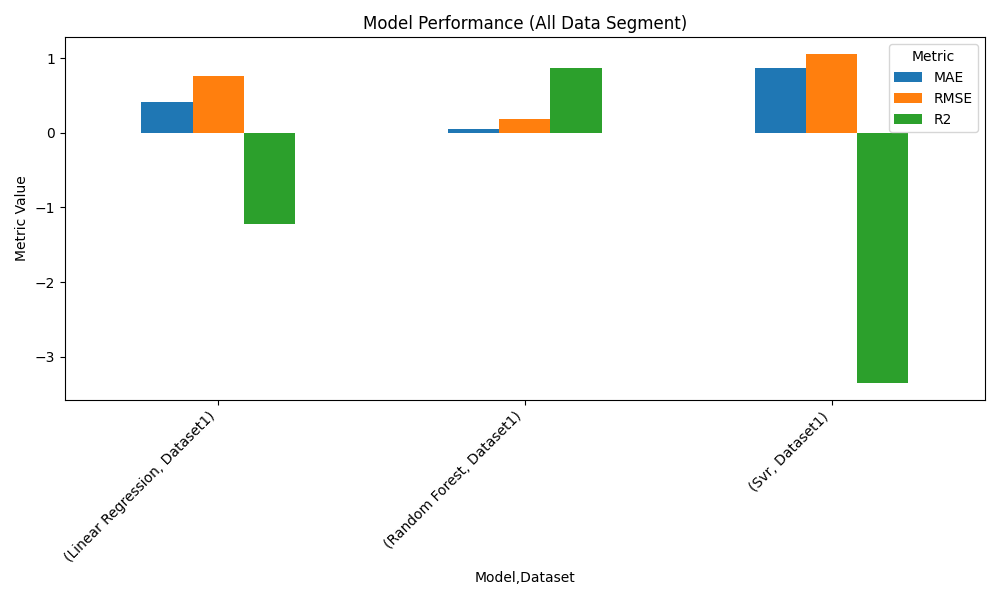
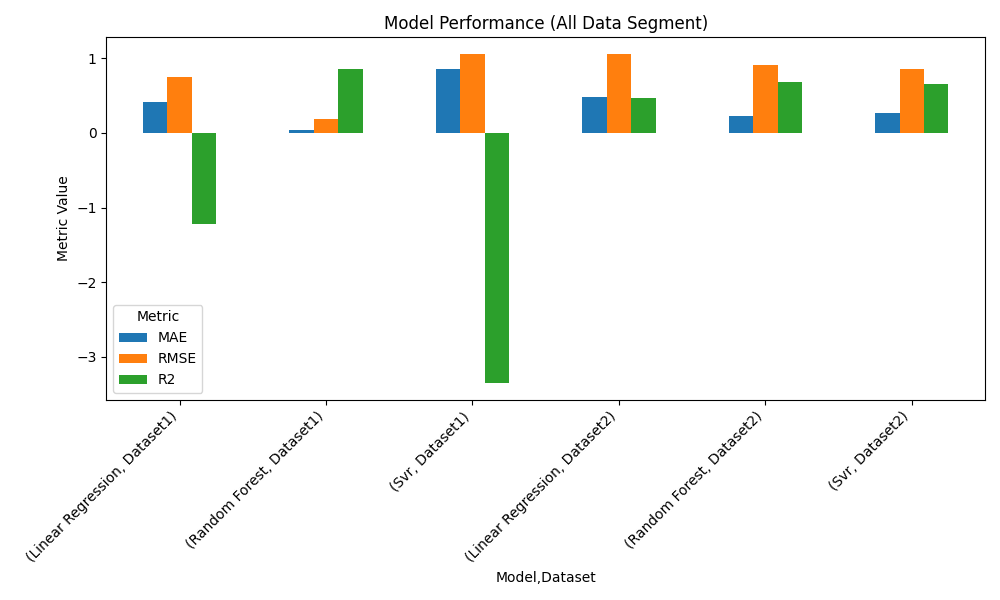
updated dashboard and compare metrics to show a combined subplot graph for MAE, RMSE, R2 for each dataset

diff --git a/scripts/compare_metrics.py b/scripts/compare_metrics.py
@@ -5,7 +5,14 @@ import matplotlib.pyplot as plt
 base_dir = 'outputs/'
 records = []
 
-# Step 1: Parse all metrics.txt files
+segment_alias = {
+    "Test Set Performance": "All Data",
+    "All Data": "All Data",
+    "Original Only": "Original Only",
+    "Synthetic Only": "Synthetic Only"
+}
+
+# Parse all metrics.txt files
 for folder in os.listdir(base_dir):
     subdir = os.path.join(base_dir, folder)
     metrics_file = os.path.join(subdir, "metrics.txt")
@@ -21,7 +28,8 @@ for folder in os.listdir(base_dir):
             for line in lines:
                 line = line.strip()
                 if "---" in line:
-                    segment = line.replace("-", "").strip()
+                    raw_segment = line.replace("-", "").strip()
+                    segment = segment_alias.get(raw_segment, raw_segment)
                 elif ":" in line and segment:
                     key, val = line.split(":", 1)
                     key = key.strip()
@@ -41,7 +49,7 @@ for folder in os.listdir(base_dir):
         except Exception as e:
             print(f"Failed to read {metrics_file}: {e}")
 
-# Step 2: Create and save enhanced comparison summary
+# Create and save enhanced comparison summary
 if records:
     df = pd.DataFrame(records)
     summary = df.pivot_table(
@@ -53,7 +61,7 @@ if records:
     summary = summary.round(4)
     summary = summary.sort_values(by=["Dataset", "Model", "Segment"])
 
-    # Step 3: Identify best performers
+    # Identify best performers
     best_summary = summary[summary["Segment"] == "All Data"].copy()
 
     best_mae_idx = best_summary["MAE"].idxmin()
@@ -64,18 +72,18 @@ if records:
     summary["Best RMSE"] = summary.index == best_rmse_idx
     summary["Best R2"] = summary.index == best_r2_idx
 
-    # Step 4: Save to CSV
+    # Save to CSV
     summary_path = os.path.join(base_dir, "model_comparison_summary.csv")
     summary.to_csv(summary_path, index=False)
 
-    # Step 5: Save best results to TXT
+    # Save best results to TXT
     with open(os.path.join(base_dir, "model_comparison_summary.txt"), "w") as f:
         f.write("=== Best Performing Models (All Data Segment) ===\n")
         f.write(f"Best MAE  : {summary.loc[best_mae_idx, 'Model']} on {summary.loc[best_mae_idx, 'Dataset']} (MAE: {summary.loc[best_mae_idx, 'MAE']})\n")
         f.write(f"Best RMSE : {summary.loc[best_rmse_idx, 'Model']} on {summary.loc[best_rmse_idx, 'Dataset']} (RMSE: {summary.loc[best_rmse_idx, 'RMSE']})\n")
         f.write(f"Best R²   : {summary.loc[best_r2_idx, 'Model']} on {summary.loc[best_r2_idx, 'Dataset']} (R²: {summary.loc[best_r2_idx, 'R2']})\n")
 
-    # Step 6: Plot bar chart for visual comparison (optional)
+    # Plot bar chart for visual comparison
     chart_data = best_summary[["Model", "Dataset", "MAE", "RMSE", "R2"]]
     chart_data.set_index(["Model", "Dataset"]).plot(kind='bar', figsize=(10, 6))
     plt.title("Model Performance (All Data Segment)")
@@ -83,6 +91,30 @@ if records:
     plt.xticks(rotation=45, ha="right")
     plt.tight_layout()
     plt.savefig(os.path.join(base_dir, "model_comparison_chart.png"))
+
+    #Generate separate subplot figure per dataset
+    for dataset_name in summary["Dataset"].unique():
+        data_subset = best_summary[best_summary["Dataset"] == dataset_name]
+
+        fig, axs = plt.subplots(1, 3, figsize=(15, 5))
+        for idx, metric in enumerate(["MAE", "RMSE", "R2"]):
+            axs[idx].bar(data_subset["Model"], data_subset[metric], color='steelblue')
+            axs[idx].set_title(metric)
+            if metric == "R2":
+                axs[idx].set_ylim(-3.5, 1)
+            else:
+                max_val = data_subset[metric].max()
+                axs[idx].set_ylim(0, max_val * 1.1)
+            axs[idx].set_ylabel(metric)
+            axs[idx].set_xlabel("Model")
+
+        fig.suptitle(f"Model Performance Comparison ({dataset_name} - All Data Segment)", fontsize=14)
+        plt.tight_layout()
+        subplot_path = os.path.join(base_dir, f"model_comparison_subplots_{dataset_name.lower()}.png")
+        plt.savefig(subplot_path)
+        plt.close()
+
+        print(f" - Subplot saved: {subplot_path}")
 
     print("Summary saved to:")
     print(" - model_comparison_summary.csv")

diff --git a/dashboard.py b/dashboard.py
@@ -209,10 +209,6 @@ elif main_section == "Model Visualisation":
     elif view == "Model Metric Summary":
         st.subheader("Model Metric Comparison")
 
-        if dataset_choice == "savings_data_train":
-            st.warning("This chart displays model performance on Dataset1 (blindtest only). Dataset2 metrics are not included in this visual comparison.")
-
-
         summary_csv = "outputs/model_comparison_summary.csv"
         best_txt = "outputs/model_comparison_summary.txt"
         chart_img = "outputs/model_comparison_chart.png"
@@ -230,18 +226,22 @@ elif main_section == "Model Visualisation":
 
             # Let user pick a metric to visualize
             metric = st.selectbox("Select Metric to Chart", ["MAE", "RMSE", "R2"])
-            filtered = df[df["Segment"] == "All Data"].copy()
-            chart_df = filtered[["Model", "Dataset", metric]]
-            chart_df = chart_df.pivot(index="Model", columns="Dataset", values=metric).reset_index()
-            melted = chart_df.melt(id_vars="Model", var_name="Dataset", value_name=metric)
-
-            fig = px.bar(melted, x="Model", y=metric, color="Dataset", barmode="group",
-                        title=f"{metric} by Model and Dataset (All Data Segment)")
+            filtered = df[(df["Segment"] == "All Data")].copy()
+            dataset_label = "Dataset2" if dataset_choice == "savings_data_train" else "Dataset1"
+            filtered = filtered[filtered["Dataset"] == dataset_label]
+            fig = px.bar(filtered, x="Model", y=metric, color="Dataset", barmode="group",
+                        title=f"{metric} by Model - {dataset_label} (All Data Segment)")
             st.plotly_chart(fig, use_container_width=True)
 
             # Show saved image chart
+            subplot_img = f"outputs/model_comparison_subplots_dataset2.png" if dataset_choice == "savings_data_train" else "outputs/model_comparison_subplots_dataset1.png"
+
+            # Show selected dataset subplot
+            if os.path.exists(subplot_img):
+                with st.expander(f"Open Subplot for Selected Dataset ({os.path.basename(subplot_img)})"):
+                    st.image(subplot_img)
             if os.path.exists(chart_img):
-                with st.expander("Open Saved Bar Chart (.png)"):
+                with st.expander("Open Combined Bar Chart (All Datasets)"):
                     st.image(chart_img)
         else:
             st.warning("model_comparison_summary.csv not found.")
